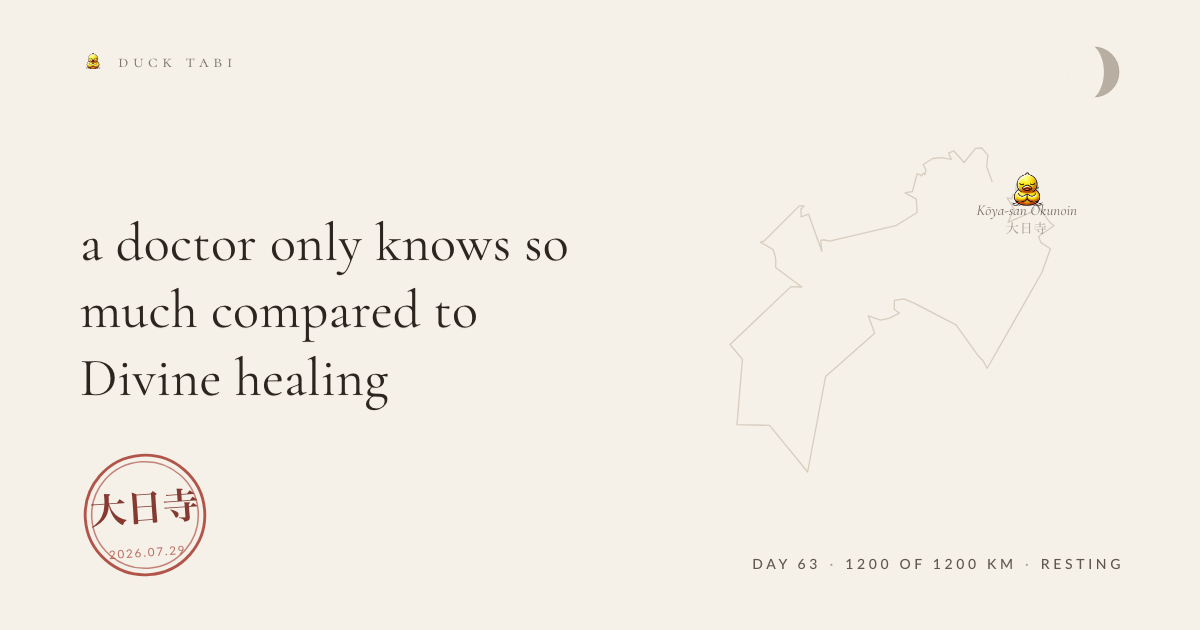
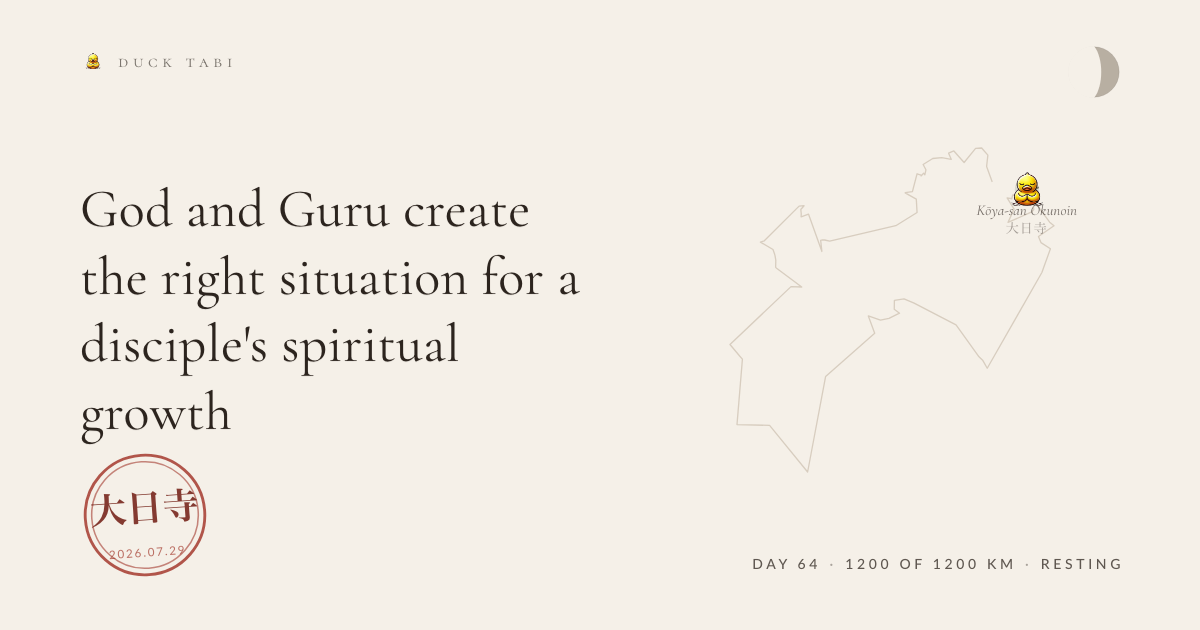
the duck walks

Changed region(s): [[0.0617, 0.3016, 0.4933, 0.6937]]

diff --git a/entries/2026-10-01-meditation.md b/entries/2026-10-01-meditation.md
@@ -1,0 +1,14 @@
+---
+date: '2026-10-01'
+route: shikoku-88
+stage: 4
+stageName: Kōya-san Okunoin
+coords: [135.589, 34.2167]
+kind: meditation
+glyph: 🌿
+weather: clear, 16°C
+kmFromStart: 9
+heardId: 5d975528
+---
+
+God and Guru create the right situation for a disciple's spiritual growth
